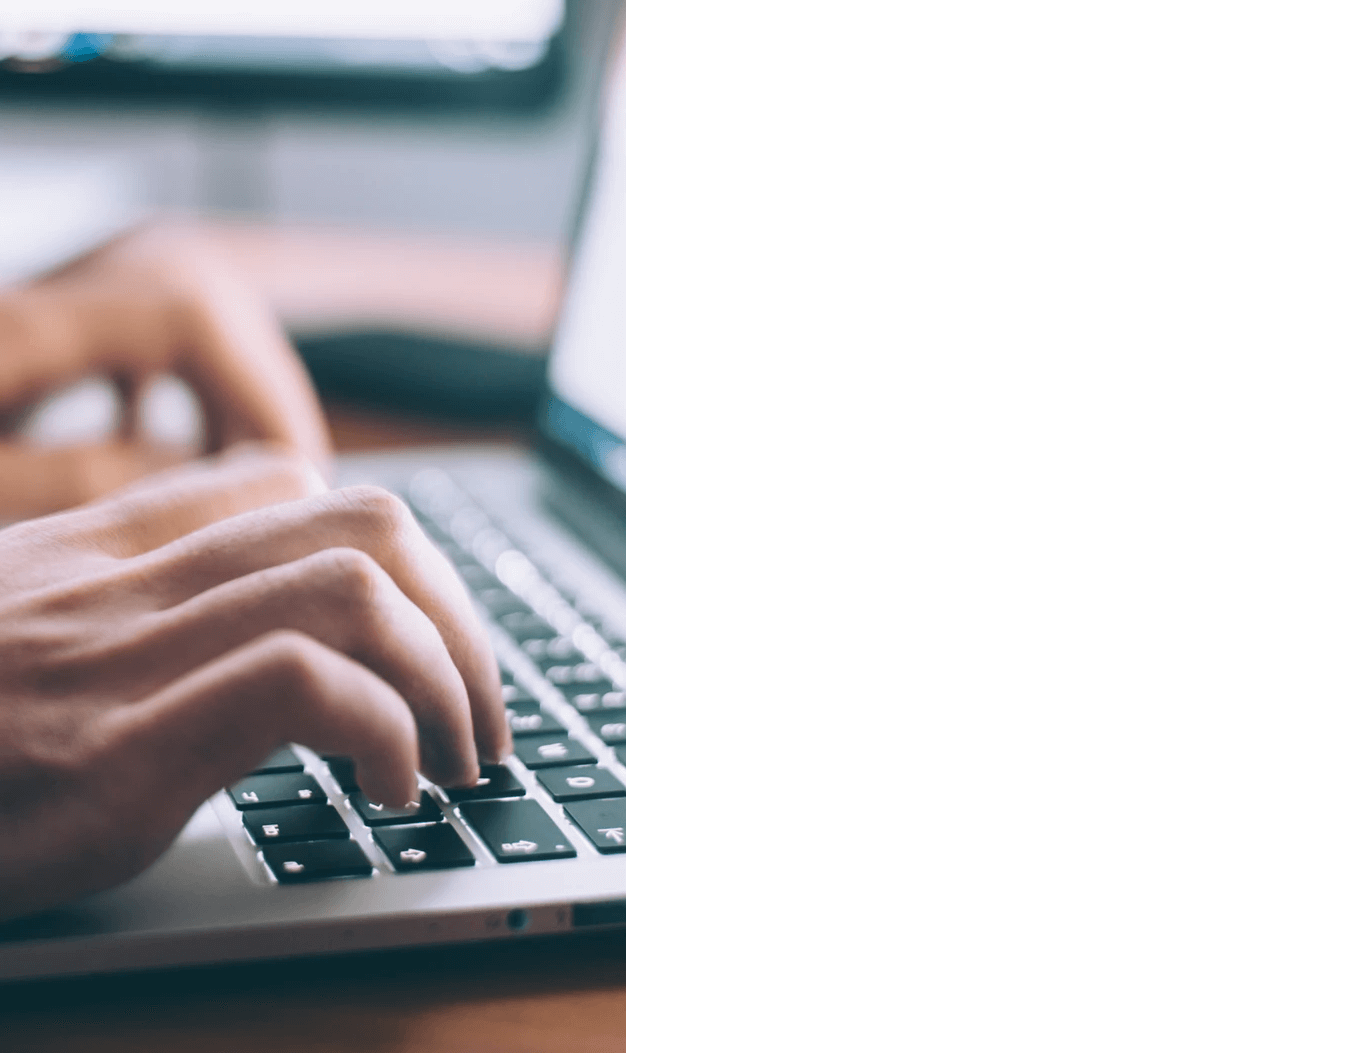
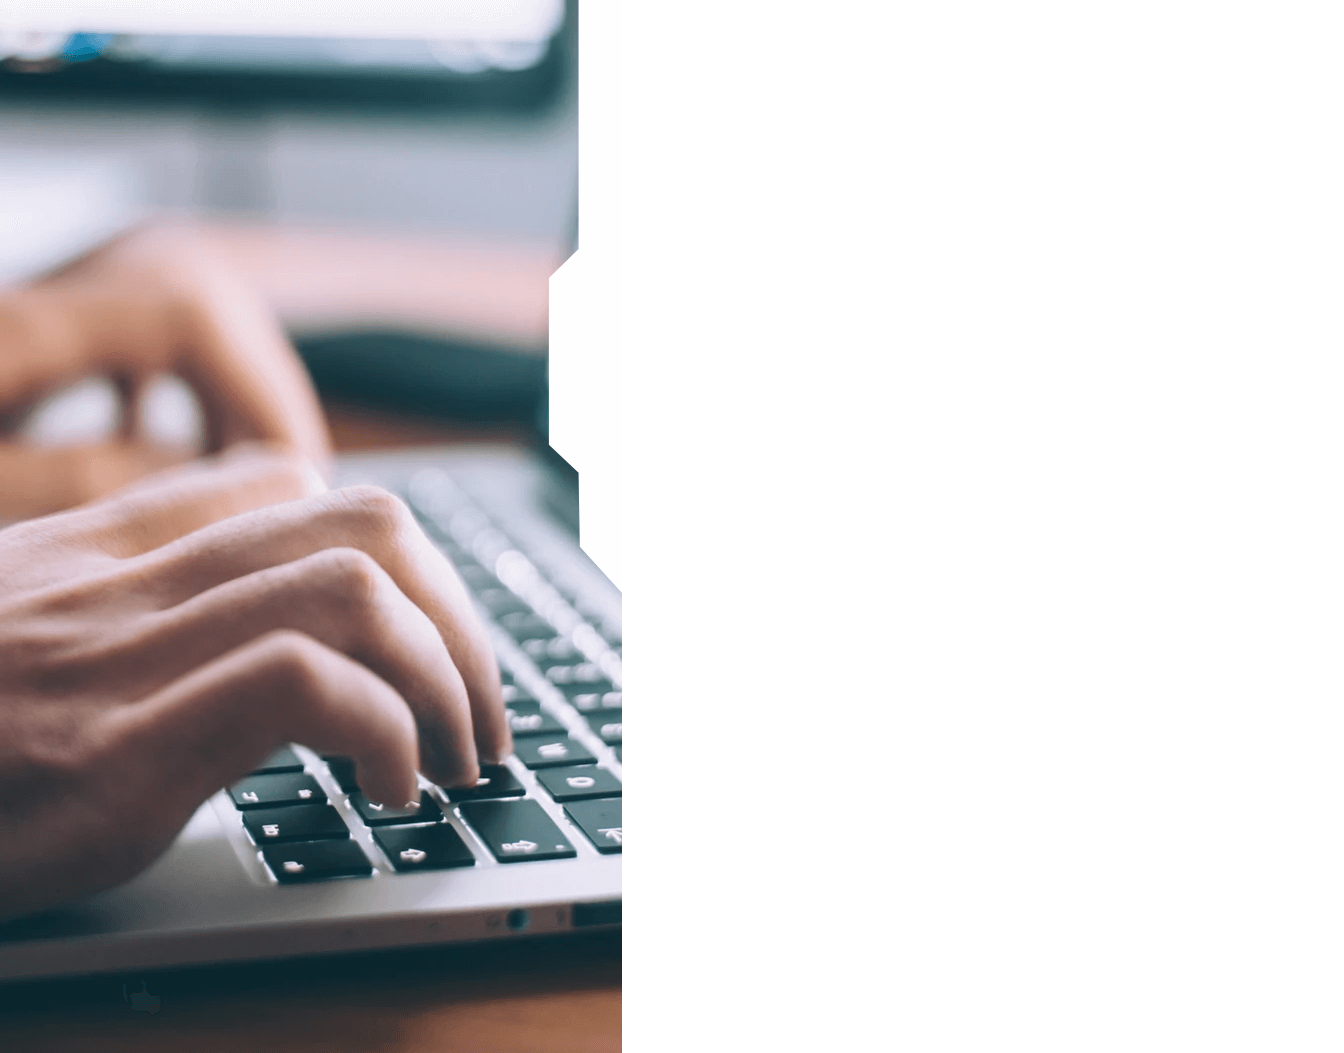
Updates

diff --git a/style.css b/style.css
@@ -181,6 +181,7 @@ hr.divider--secondary {
 	background-color: #0F70B7 !important;
 	display: block !important;
 	position: relative !important;
+	clip-path: polygon(0 0, 95% 0, 100% 20%, 100% 100%, 100% 100%, 5% 100%, 0 80%);
 }
 
 .btn-custom:hover {
@@ -563,7 +564,8 @@ hr.divider--secondary {
 }
 
 .testimonial__description {
-	text-align: justify;
+	line-height: 1.5;
+	font-size: 32px;
 }
 
 .testimonial-author {
@@ -693,6 +695,10 @@ hr.divider--secondary {
 .contact-form .btn-custom {
 	margin: 0 0 0 auto !important;
 }
+
+.contact-bg-mobile {
+	display: none;
+}
 /* /HOME */
 
 /* SINGLE POST */
@@ -702,7 +708,7 @@ hr.divider--secondary {
 }
 
 .single-article-container {
-	width: 750px;
+	width: 760px !important;
 	max-width: 100%;
 }
 
@@ -728,6 +734,7 @@ hr.divider--secondary {
 	top: 50px;
 	z-index: 1;
 	position: relative;
+	clip-path: polygon(0 0, 95% 0, 100% 10%, 100% 100%, 0 100%);
 }
 
 .single-article__title {
@@ -809,11 +816,35 @@ hr.divider--secondary {
 
 .article-author {
 	margin: 50px -10px;
+	padding: 70px 0;
 	justify-content: center;
 	align-items: center;
 	flex-wrap: wrap;
 	flex-flow: row;
 	display: flex;
+	position: relative;
+}
+
+.article-author:before,
+.article-author:after {
+	height: 20px;
+	background-position: center;
+	background-repeat: no-repeat;
+	background-size: contain;
+	content: '';
+	left: 10px;
+	right: 10px;
+	position: absolute;
+}
+
+.article-author:before {
+	background-image: url('./assets/images/divider-author-up.png');
+    top: 0;
+}
+
+.article-author:after {
+	background-image: url('./assets/images/divider-author-down.png');
+	bottom: 0;
 }
 
 .article-author__thumb {
@@ -1024,6 +1055,10 @@ footer {
     	font-size: 25px;
     }
 
+    h3 {
+    	font-size: 20px;
+    }
+
     .navbar-default .navbar-toggle {
     	min-width: 100px;
     	margin: 15px 15px 0 0;
@@ -1130,6 +1165,10 @@ footer {
 		padding: 30px 0;
 	}
 
+	.testimonial__description {
+        font-size: 22px;
+	}
+
 	.partners {
 		padding: 30px 0;
 	}
@@ -1139,12 +1178,18 @@ footer {
 	}
 
 	.contact {
-		padding: 30px 0;
+		padding: 0 0 30px 0;
 		background: #fff;
 	}
 
 	.contact-form .btn-custom {
 		width: 100% !important;
+	}
+
+	.contact-bg-mobile {
+		width: 100%;
+		margin-bottom: 30px;
+		display: block;
 	}
 	/* /HOME */
 
@@ -1180,6 +1225,7 @@ footer {
     	font-size: 15px;
     }
 	/* /SINGLE POST */
+
     footer {
     	padding: 30px 0;
     }
@@ -1196,4 +1242,10 @@ footer {
 	.footer-social-networks > ul {
 		float: left;
 	}
+}
+
+@media (min-width: 1200px) {
+	.container {
+	    width: 1120px;
+    }
 }

diff --git a/index.php b/index.php
@@ -114,7 +114,7 @@
             } else {
         ?>
                 <p>Nenhum resultado encontrado. ):</p><br>
-                <a class="btn-custom" href="<?php bloginfo('url'); ?>/blog" style="margin: 0 0 50px 0;">Ver todos os artigos</a>
+                <a class="btn-custom" href="<?php bloginfo('url'); ?>/blog" style="margin-bottom: 50px !important;">Ver todos os artigos</a>
         <?php 
             }
         ?>

diff --git a/functions.php b/functions.php
@@ -5,4 +5,12 @@
     if( function_exists('acf_add_options_page') ) {
         acf_add_options_page();
     }
+
+    add_filter( 'comment_form_fields', 'move_comment_field' );
+    function move_comment_field( $fields ) {
+        $comment_field = $fields['comment'];
+        unset( $fields['comment'] );
+        $fields['comment'] = $comment_field;
+        return $fields;
+    }
 ?>

diff --git a/templates/home.php b/templates/home.php
@@ -274,6 +274,7 @@
     }
 ?>
 <section id="contact" class="contact">
+    <img class="img-responsive contact-bg-mobile" src="<?php bloginfo('template_url'); ?>/assets/images/contact_bg-mobile.png">
     <div class="container">
         <div class="row">
             <div class="col-sm-6">
